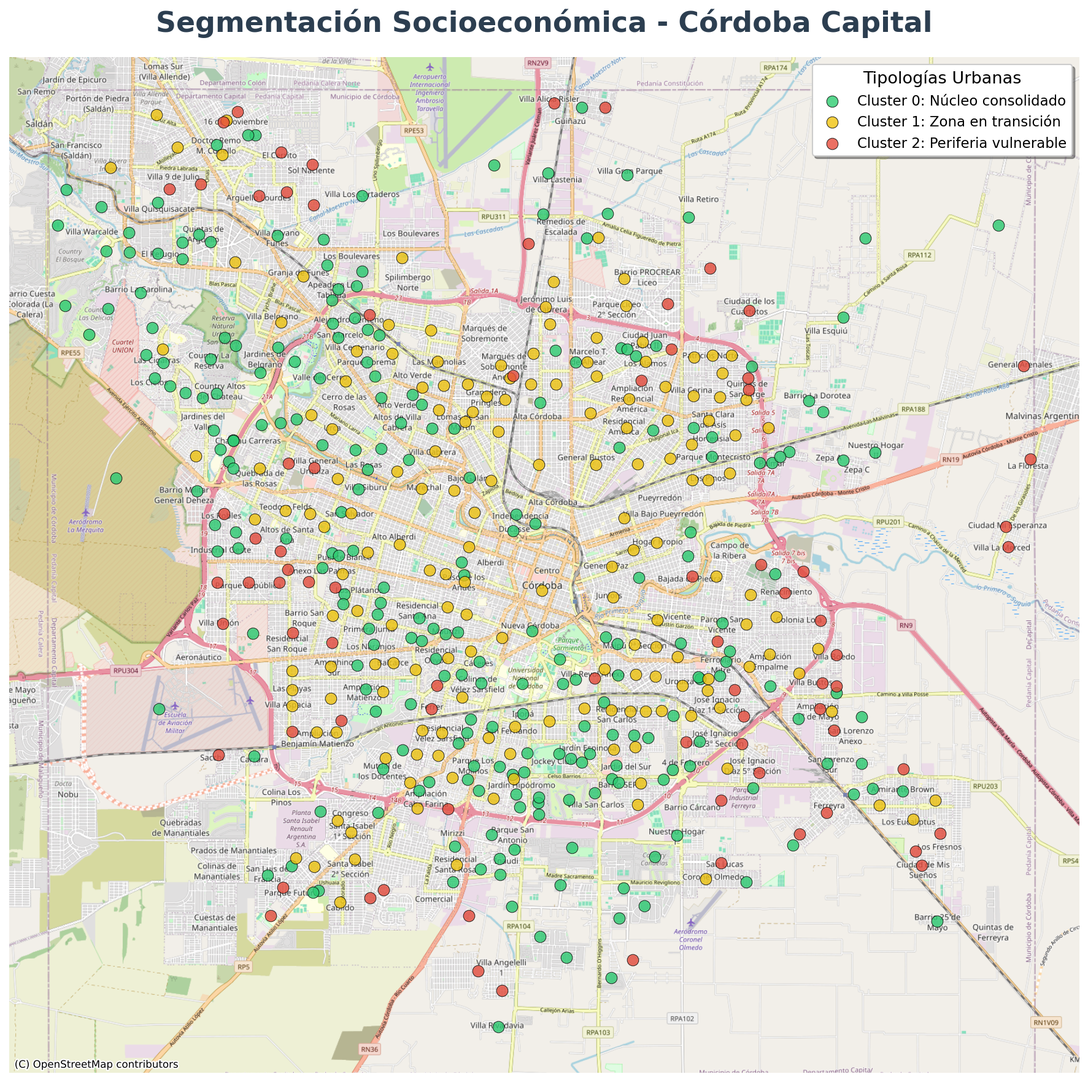
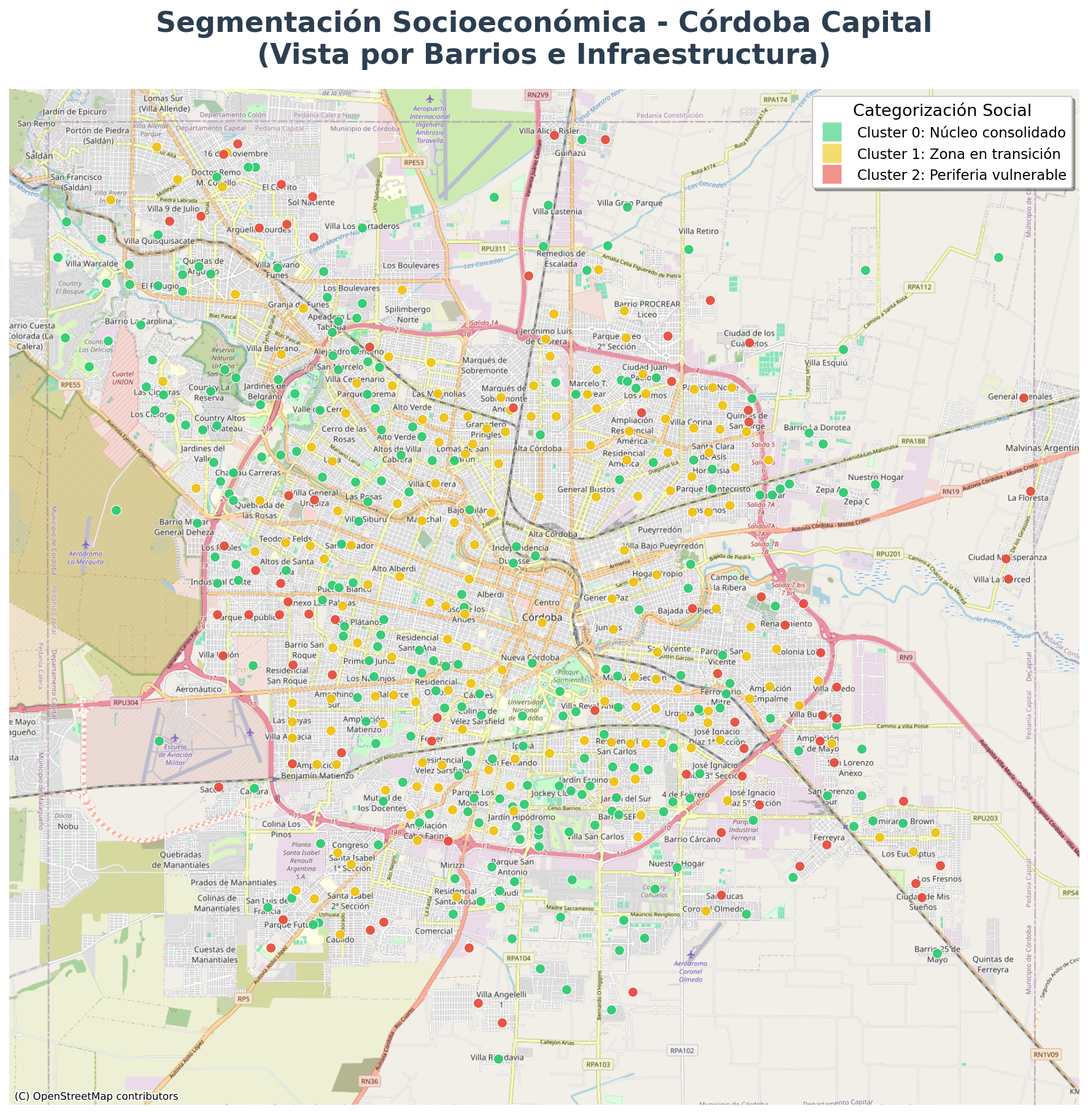
feat: visualización geográfica completa con barrios y mapa base OSM

diff --git a/generate_pro_map.py b/generate_pro_map.py
@@ -17,20 +17,6 @@ def generate_pro_map():
     df = pd.read_csv(file_path)
     gdf = gpd.read_file(geojson_path)
     
-    # Asegurar que el GeoDataFrame tenga un CRS (sistema de coordenadas)
-    if gdf.crs is None:
-        gdf.set_crs(epsg=4326, inplace=True) # WGS84 (Lat/Lon)
-
-    # Convertir a Web Mercator (EPSG:3857) que es el formato que usan los mapas base como OSM
-    gdf_web = gdf.to_crs(epsg=3857)
-    
-    # Crear un DataFrame con coordenadas de puntos convertidas a Web Mercator
-    points_gdf = gpd.GeoDataFrame(
-        df, 
-        geometry=gpd.points_from_xy(df.centroide_lon, df.centroide_lat),
-        crs="EPSG:4326"
-    ).to_crs(epsg=3857)
-
     # Mapeo de clusters
     cluster_mapping = {
         'Núcleo Urbano Consolidado': 'Cluster 0: Núcleo consolidado',
@@ -38,8 +24,16 @@ def generate_pro_map():
         'Suburbio Popular Consolidado': 'Cluster 1: Zona en transición',
         'Periferia Vulnerable': 'Cluster 2: Periferia vulnerable'
     }
-    points_gdf['cluster_tag'] = points_gdf['cluster_descripcion'].map(cluster_mapping)
+    df['cluster_tag'] = df['cluster_descripcion'].map(cluster_mapping)
     
+    # Unir datos al GeoDataFrame para pintar los polígonos
+    gdf = gdf.merge(df[['barrio', 'cluster_tag']], on='barrio', how='left')
+    
+    # Asegurar CRS y convertir a Web Mercator para el mapa base
+    if gdf.crs is None:
+        gdf.set_crs(epsg=4326, inplace=True)
+    gdf_web = gdf.to_crs(epsg=3857)
+
     # Colores profesionales
     custom_palette = {
         'Cluster 0: Núcleo consolidado': '#2ecc71', # Verde
@@ -50,40 +44,54 @@ def generate_pro_map():
     # 2. Configuración de la figura
     fig, ax = plt.subplots(figsize=(15, 15), dpi=150)
     
-    # --- CAPA 1: MAPA BASE (OpenStreetMap) ---
-    print("Agregando mapa base...")
-    # Dibujamos primero los límites de los barrios con transparencia para definir el área
-    gdf_web.plot(ax=ax, alpha=0.1, edgecolor='black', linewidth=0.5)
-    
-    # Agregar el mapa base real debajo
-    cx.add_basemap(ax, source=cx.providers.OpenStreetMap.Mapnik, zoom=13)
-    
-    # --- CAPA 2: PUNTOS DE CLUSTERS ---
-    print("Graficando puntos...")
+    # --- CAPA 1: POLÍGONOS DE BARRIOS (COLOREADOS) ---
+    print("Dibujando barrios...")
     for cluster, color in custom_palette.items():
-        subset = points_gdf[points_gdf['cluster_tag'] == cluster]
+        subset = gdf_web[gdf_web['cluster_tag'] == cluster]
+        if not subset.empty:
+            subset.plot(ax=ax, color=color, alpha=0.3, edgecolor='black', linewidth=0.4, label=cluster)
+    
+    # Dibujar barrios sin cluster asignado (si los hay) en gris
+    gdf_web[gdf_web['cluster_tag'].isna()].plot(ax=ax, color='#bdc3c7', alpha=0.1, edgecolor='black', linewidth=0.2)
+
+    # --- CAPA 2: MAPA BASE ---
+    print("Agregando mapa real detrás...")
+    cx.add_basemap(ax, source=cx.providers.OpenStreetMap.Mapnik, zoom=13, zorder=0)
+    
+    # --- CAPA 3: PUNTOS (HIGHLIGHTS) ---
+    # Creamos los puntos desde el CSV directamente proyectados
+    points_gdf = gpd.GeoDataFrame(
+        df, 
+        geometry=gpd.points_from_xy(df.centroide_lon, df.centroide_lat),
+        crs="EPSG:4326"
+    ).to_crs(epsg=3857)
+    
+    print("Graficando puntos destacados...")
+    for cluster, color in custom_palette.items():
+        subset = points_gdf[points_gdf['cluster_descripcion'].map(cluster_mapping) == cluster]
         ax.scatter(
             subset.geometry.x, 
             subset.geometry.y, 
             c=color, 
-            label=cluster, 
-            s=80, 
-            alpha=0.8, 
-            edgecolors='black', 
-            linewidth=0.5,
+            s=60, 
+            alpha=0.9, 
+            edgecolors='white', 
+            linewidth=0.6,
             zorder=5
         )
 
     # 3. Estética y Diseño
-    ax.set_title('Segmentación Socioeconómica - Córdoba Capital', 
+    ax.set_title('Segmentación Socioeconómica - Córdoba Capital\n(Vista por Barrios e Infraestructura)', 
                  fontsize=22, pad=20, fontweight='bold', color='#2c3e50')
     
-    # Ocultar ejes pero mantener el marco
     ax.set_axis_off()
 
-    # Leyenda elegante
-    ax.legend(title='Tipologías Urbanas', title_fontsize='13', fontsize='11', 
-              loc='upper right', frameon=True, shadow=True)
+    # Leyenda (usando los proxies de las capas plot)
+    from matplotlib.lines import Line2D
+    legend_elements = [Line2D([0], [0], marker='s', color='w', label=k, 
+                              markerfacecolor=v, markersize=15, alpha=0.6) for k, v in custom_palette.items()]
+    ax.legend(handles=legend_elements, title='Categorización Social', title_fontsize='13', 
+              fontsize='11', loc='upper right', frameon=True, shadow=True)
 
     # 4. Guardado
     output_dir = 'figures'
@@ -93,10 +101,11 @@ def generate_pro_map():
     plt.savefig(output_path, bbox_inches='tight', facecolor='white')
     plt.close()
     
-    print(f"✅ ¡Éxito! Imagen con MAPA REAL generada en: {output_path}")
+    print(f"✅ ¡Éxito! Mapa con BARRIOS y FONDO REAL generado en: {output_path}")
 
 if __name__ == "__main__":
     generate_pro_map()
+
 
 
 
